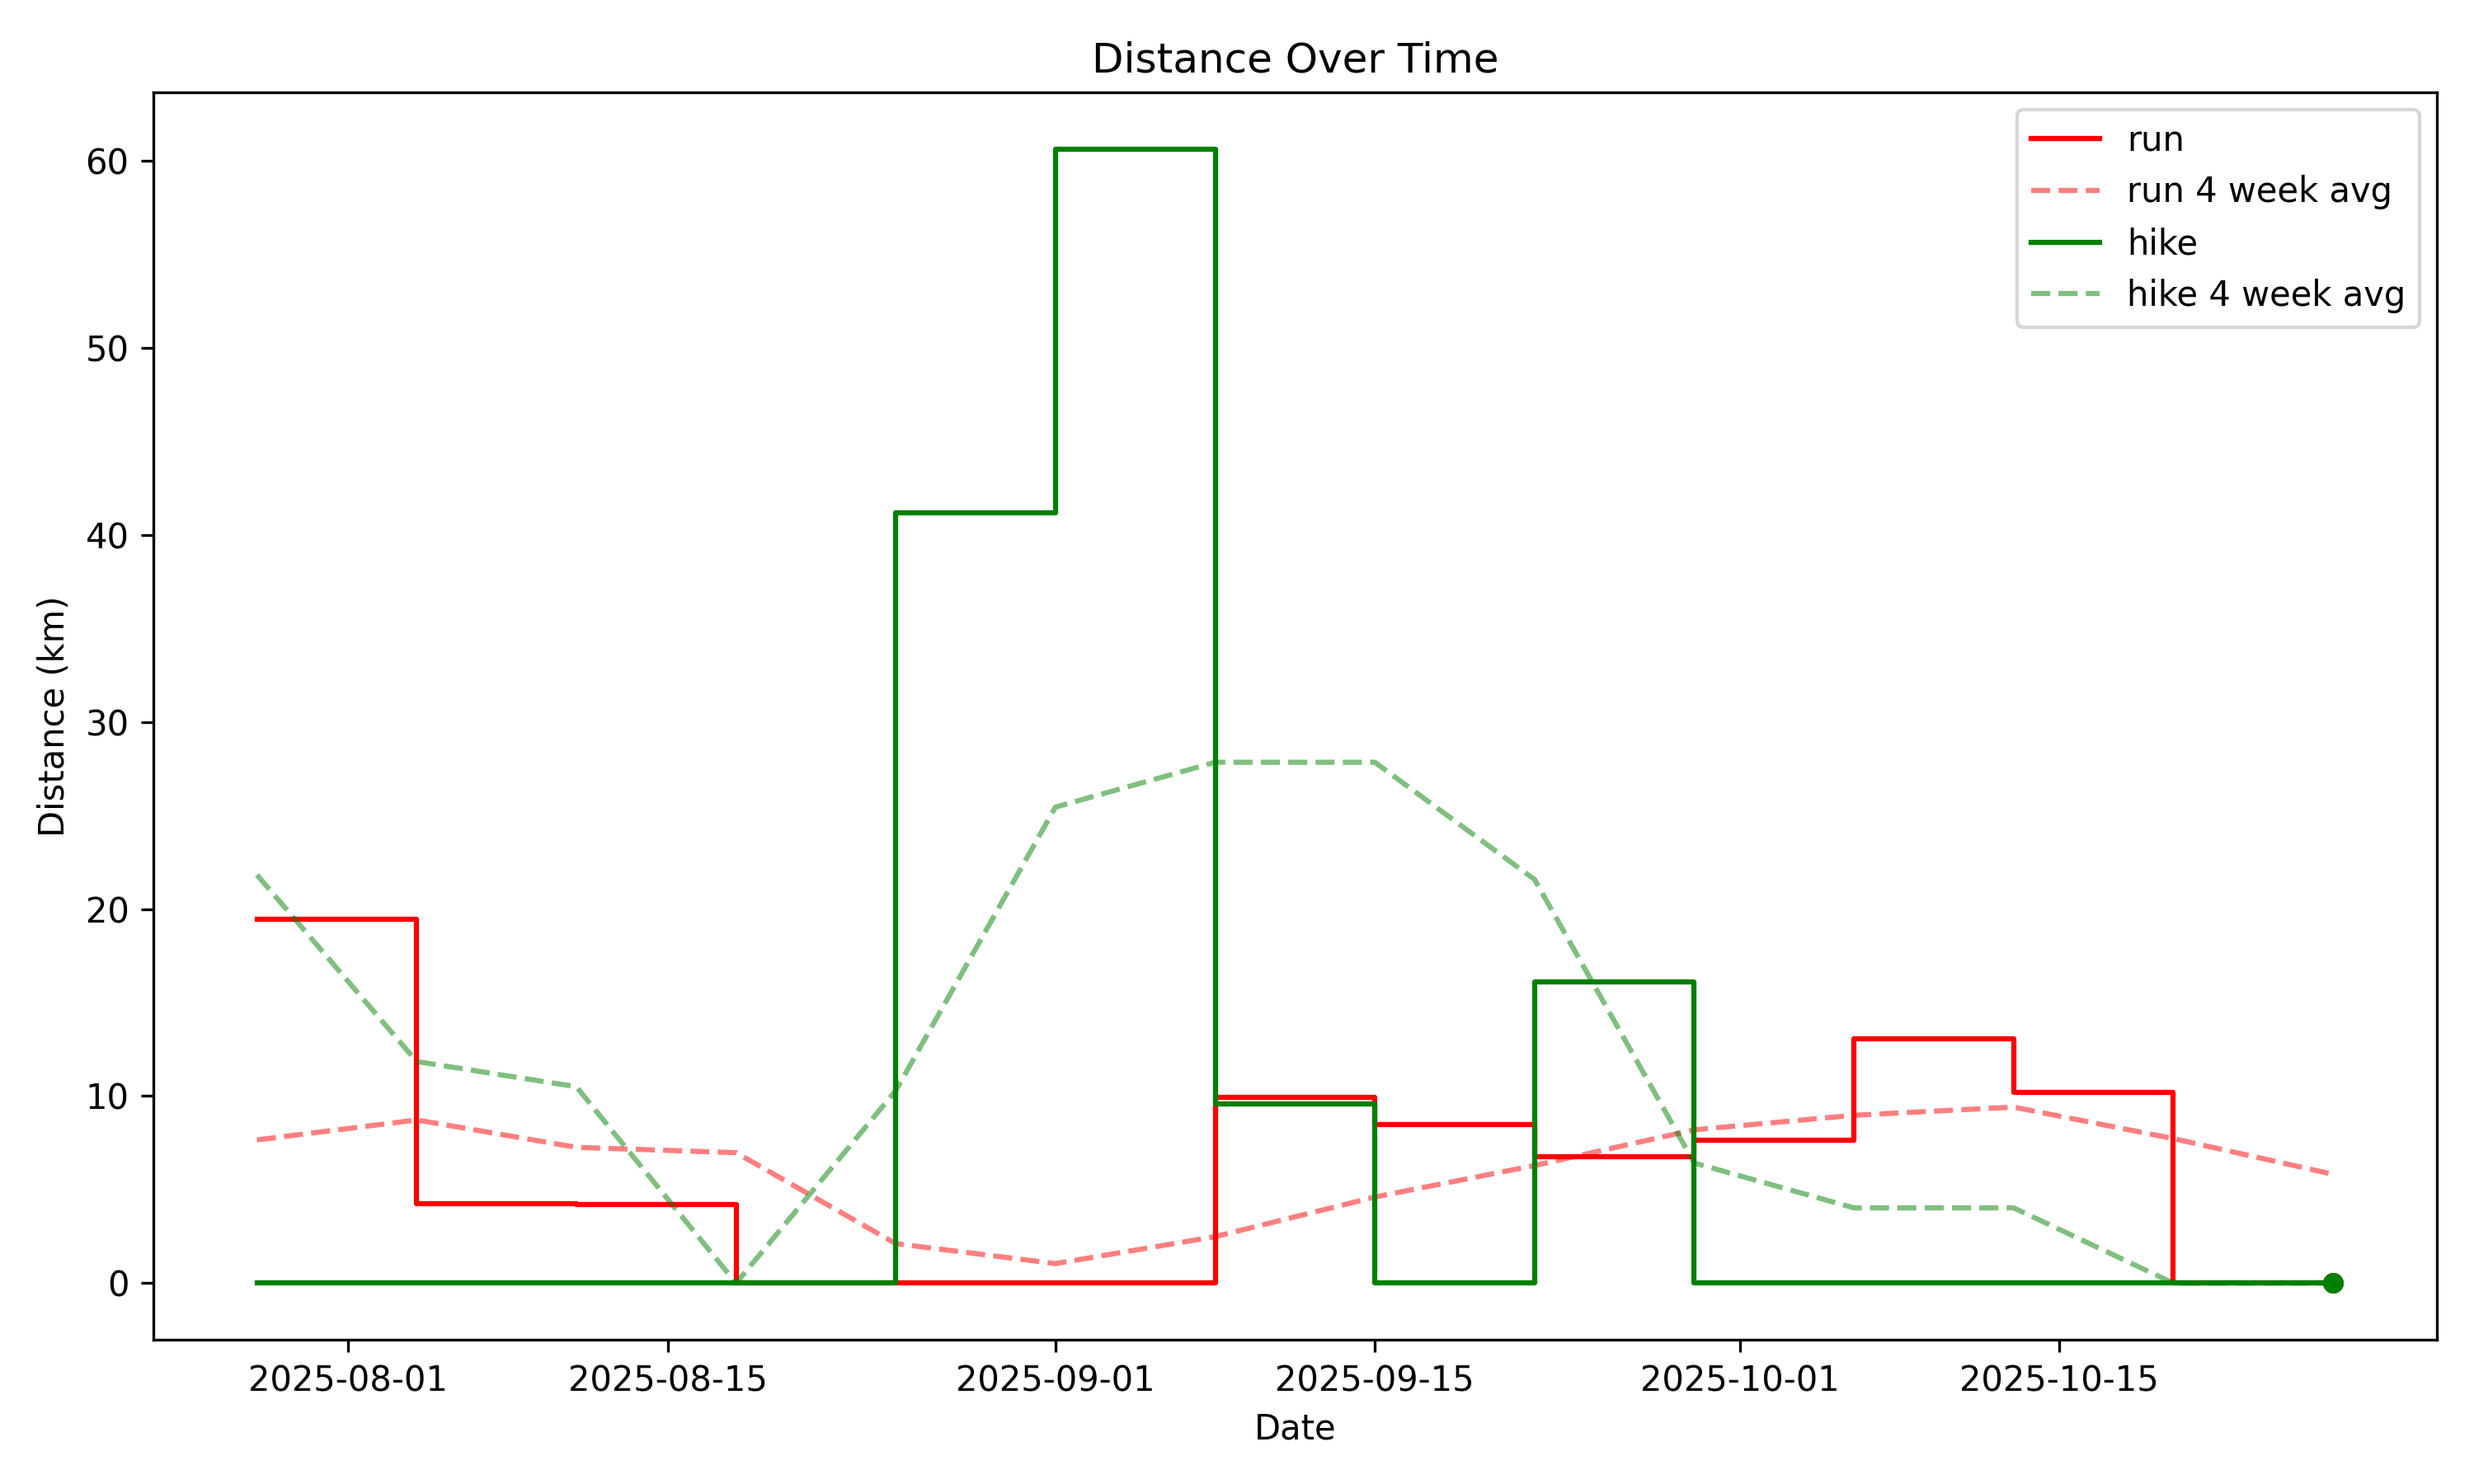
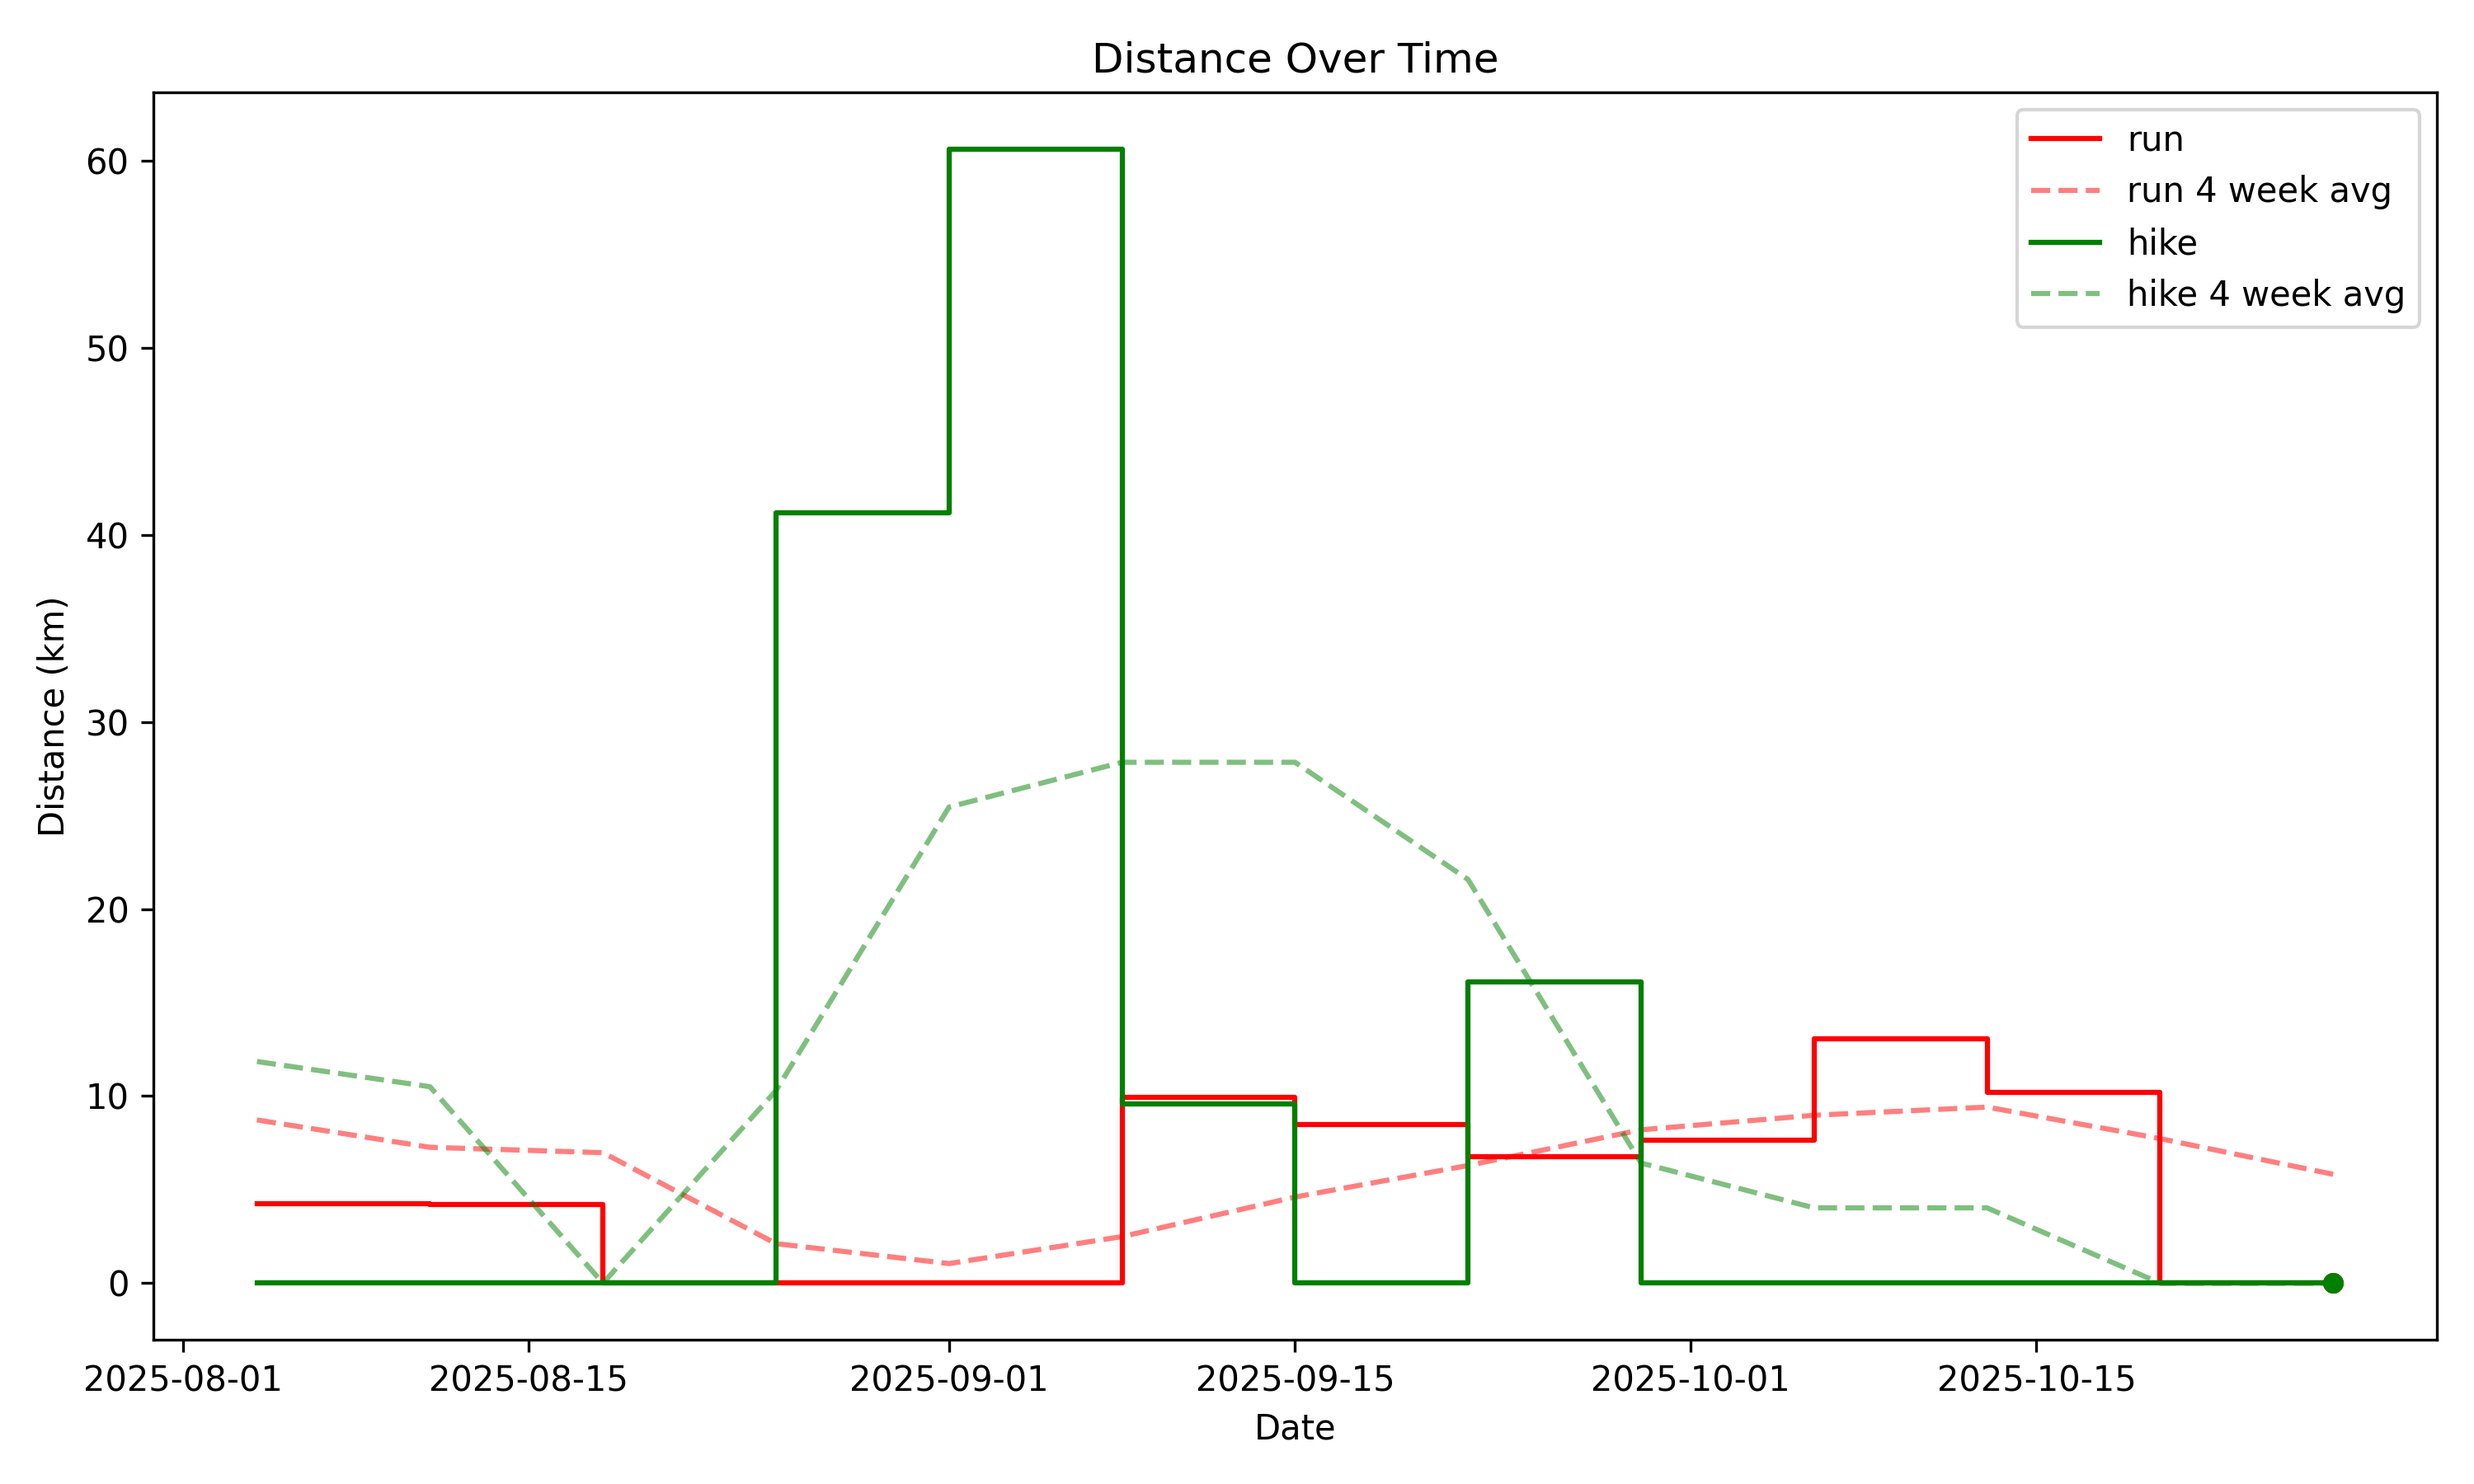
Update all data Tue Oct 28 02:04:02 UTC 2025

diff --git a/GarminData/index.html b/GarminData/index.html
@@ -90,7 +90,7 @@
             <img src="load_over_time.png" alt="RPE" class="image" />
             <img src="distance_over_time.png" alt="Distance" class="image" />
           </div>
-          <p>Last update: 2025-10-27 20:24:44 </p>
+          <p>Last update: 2025-10-28 01:51:10 </p>
         </body>
         </html>
         
